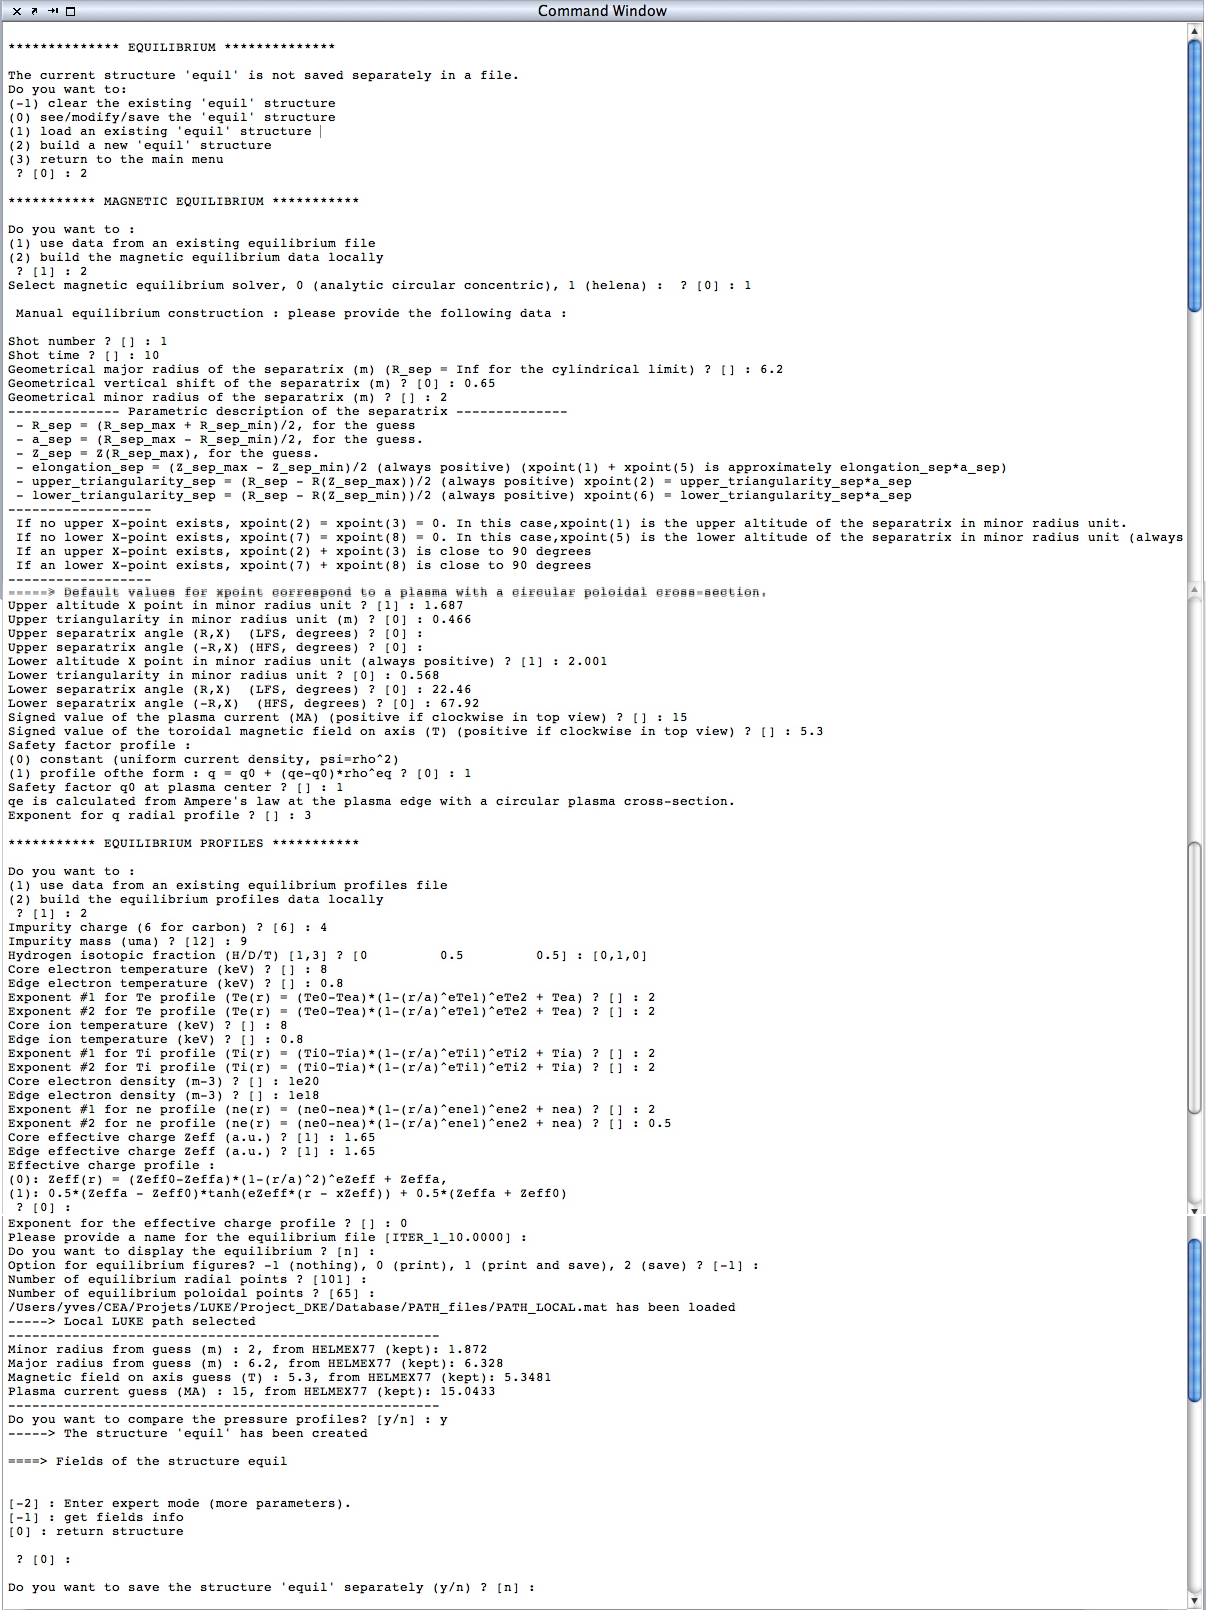
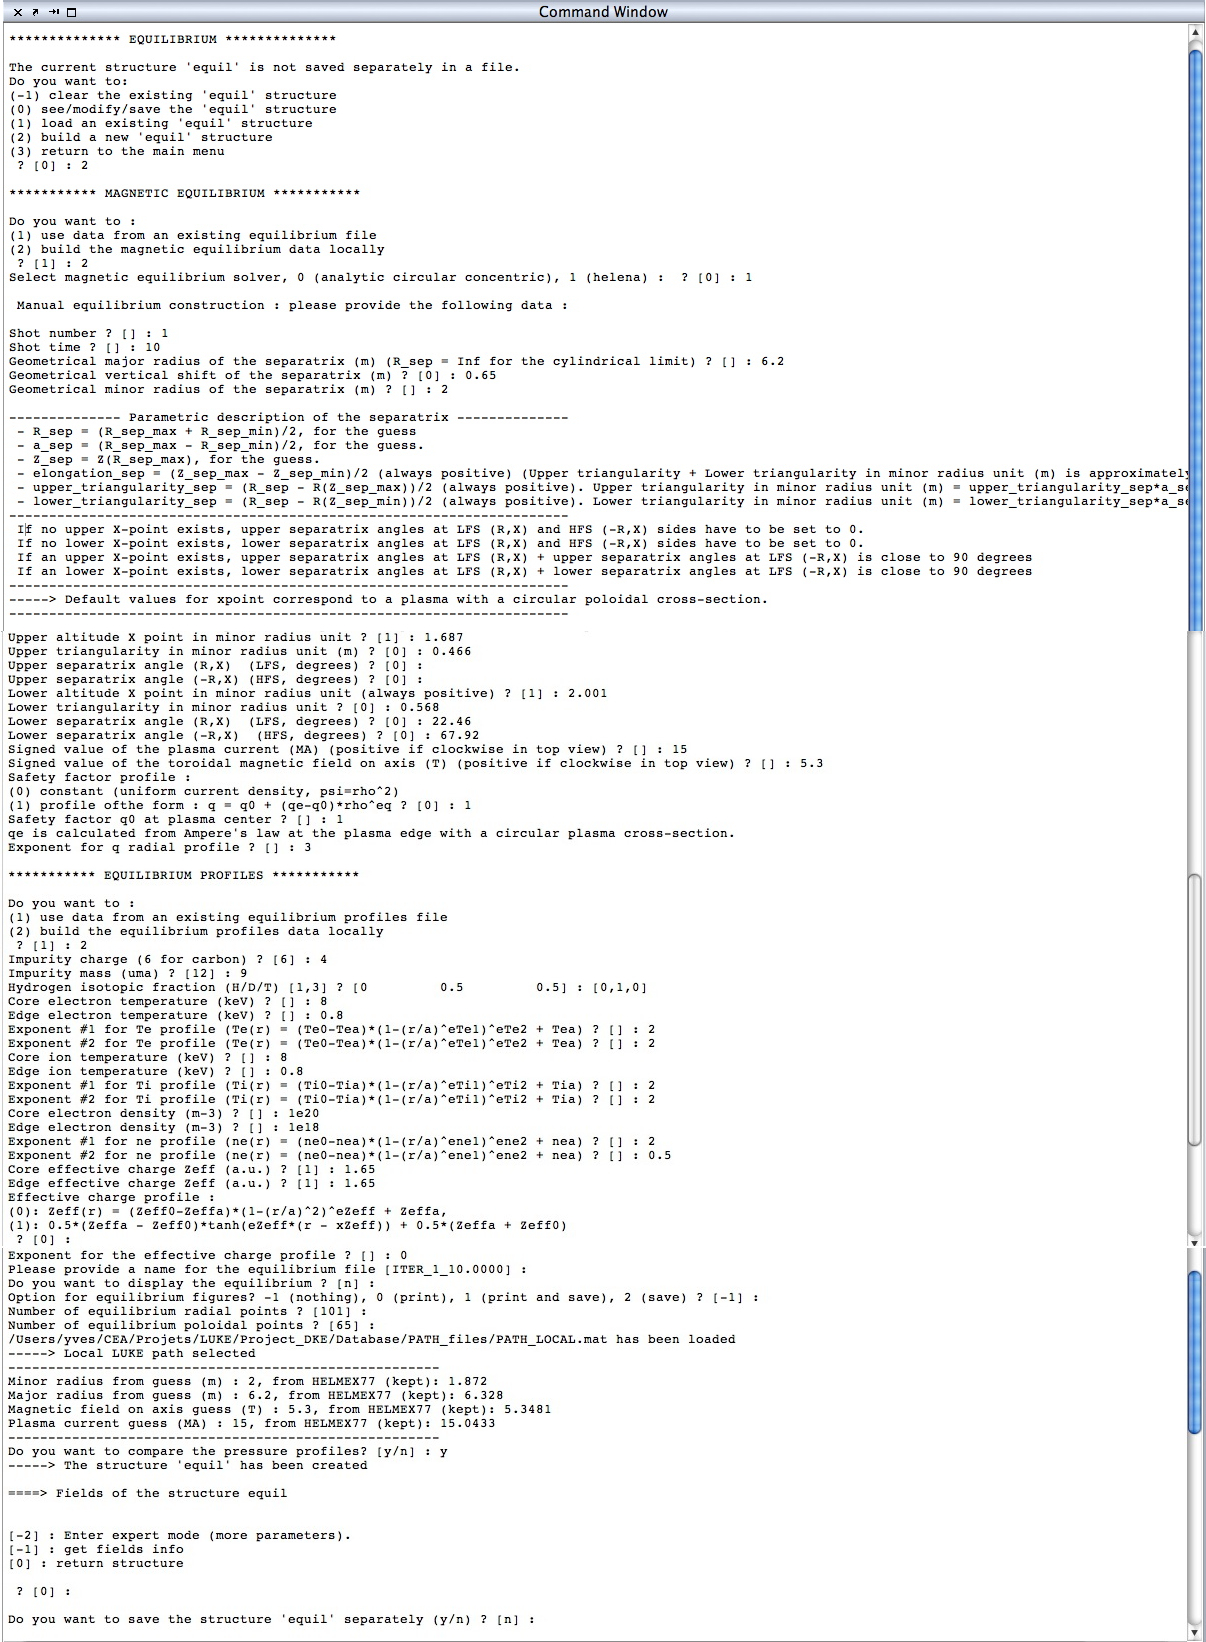
display improvement

diff --git a/Project_DKE/Display/imake_equil_ideal.m b/Project_DKE/Display/imake_equil_ideal.m
@@ -31,6 +31,7 @@ if ~isnan(e_opt),% magnetic equilibrium data
     %
     if e_opt == 1,
         %
+        disp(' ');
         info_dke_yp(1,'Parametric description of the separatrix');
         disp(' - R_sep = (R_sep_max + R_sep_min)/2, for the guess')
         disp(' - a_sep = (R_sep_max - R_sep_min)/2, for the guess.')
@@ -38,13 +39,15 @@ if ~isnan(e_opt),% magnetic equilibrium data
         disp(' - elongation_sep = (Z_sep_max - Z_sep_min)/2 (always positive) (Upper triangularity + Lower triangularity in minor radius unit (m) is approximately elongation_sep*a_sep)')
         disp(' - upper_triangularity_sep = (R_sep - R(Z_sep_max))/2 (always positive). Upper triangularity in minor radius unit (m) = upper_triangularity_sep*a_sep')
         disp(' - lower_triangularity_sep = (R_sep - R(Z_sep_min))/2 (always positive). Lower triangularity in minor radius unit (m) = lower_triangularity_sep*a_sep')
-        disp('------------------')
+        disp('----------------------------------------------------------------------')
         disp(' If no upper X-point exists, upper separatrix angles at LFS (R,X) and HFS (-R,X) sides have to be set to 0.')
         disp(' If no lower X-point exists, lower separatrix angles at LFS (R,X) and HFS (-R,X) sides have to be set to 0.')
         disp(' If an upper X-point exists, upper separatrix angles at LFS (R,X) + upper separatrix angles at LFS (-R,X) is close to 90 degrees')
         disp(' If an lower X-point exists, lower separatrix angles at LFS (R,X) + lower separatrix angles at LFS (-R,X) is close to 90 degrees')
-        disp('------------------')
+        disp('----------------------------------------------------------------------')
         info_dke_yp(2,'Default values for xpoint correspond to a plasma with a circular poloidal cross-section.');
+        disp('----------------------------------------------------------------------')
+        disp(' ');
         %
         xpoint(1) = input_dke_yp('Upper altitude X point in minor radius unit',1,[0;Inf],'',[1,1]);
         xpoint(2) = input_dke_yp('Upper triangularity in minor radius unit (m)',0,[],'',[1,1]);
